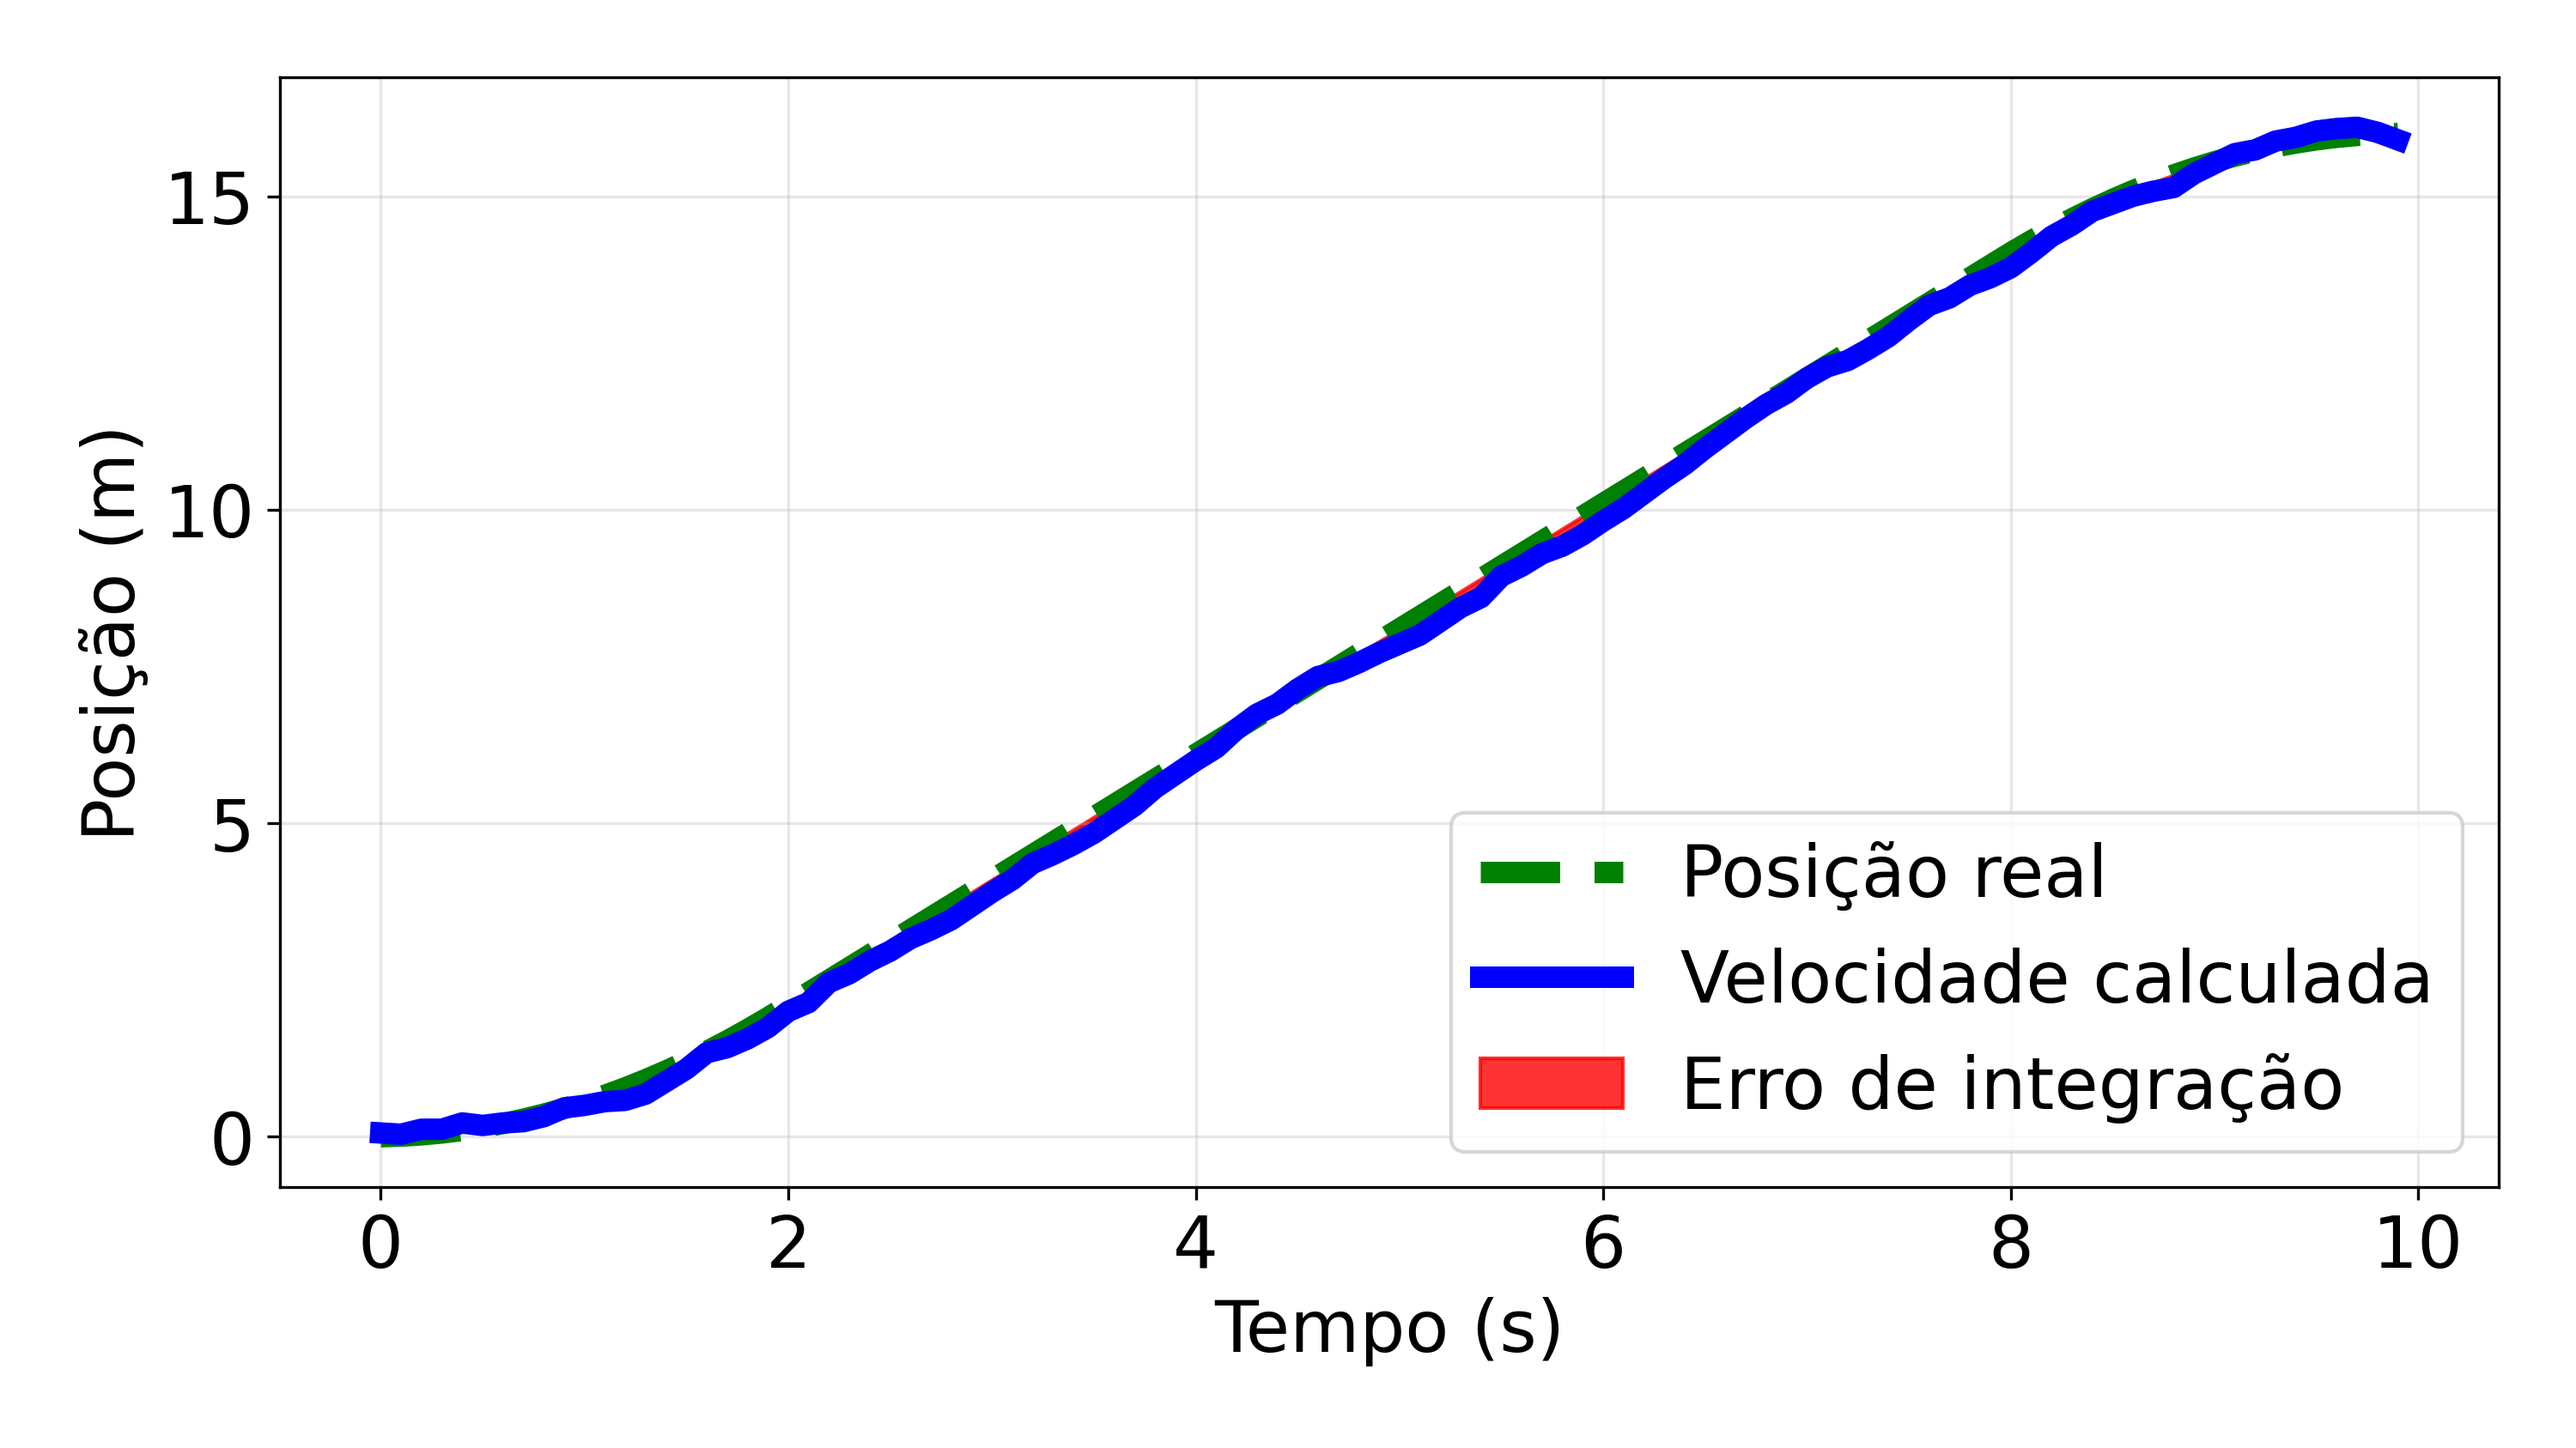
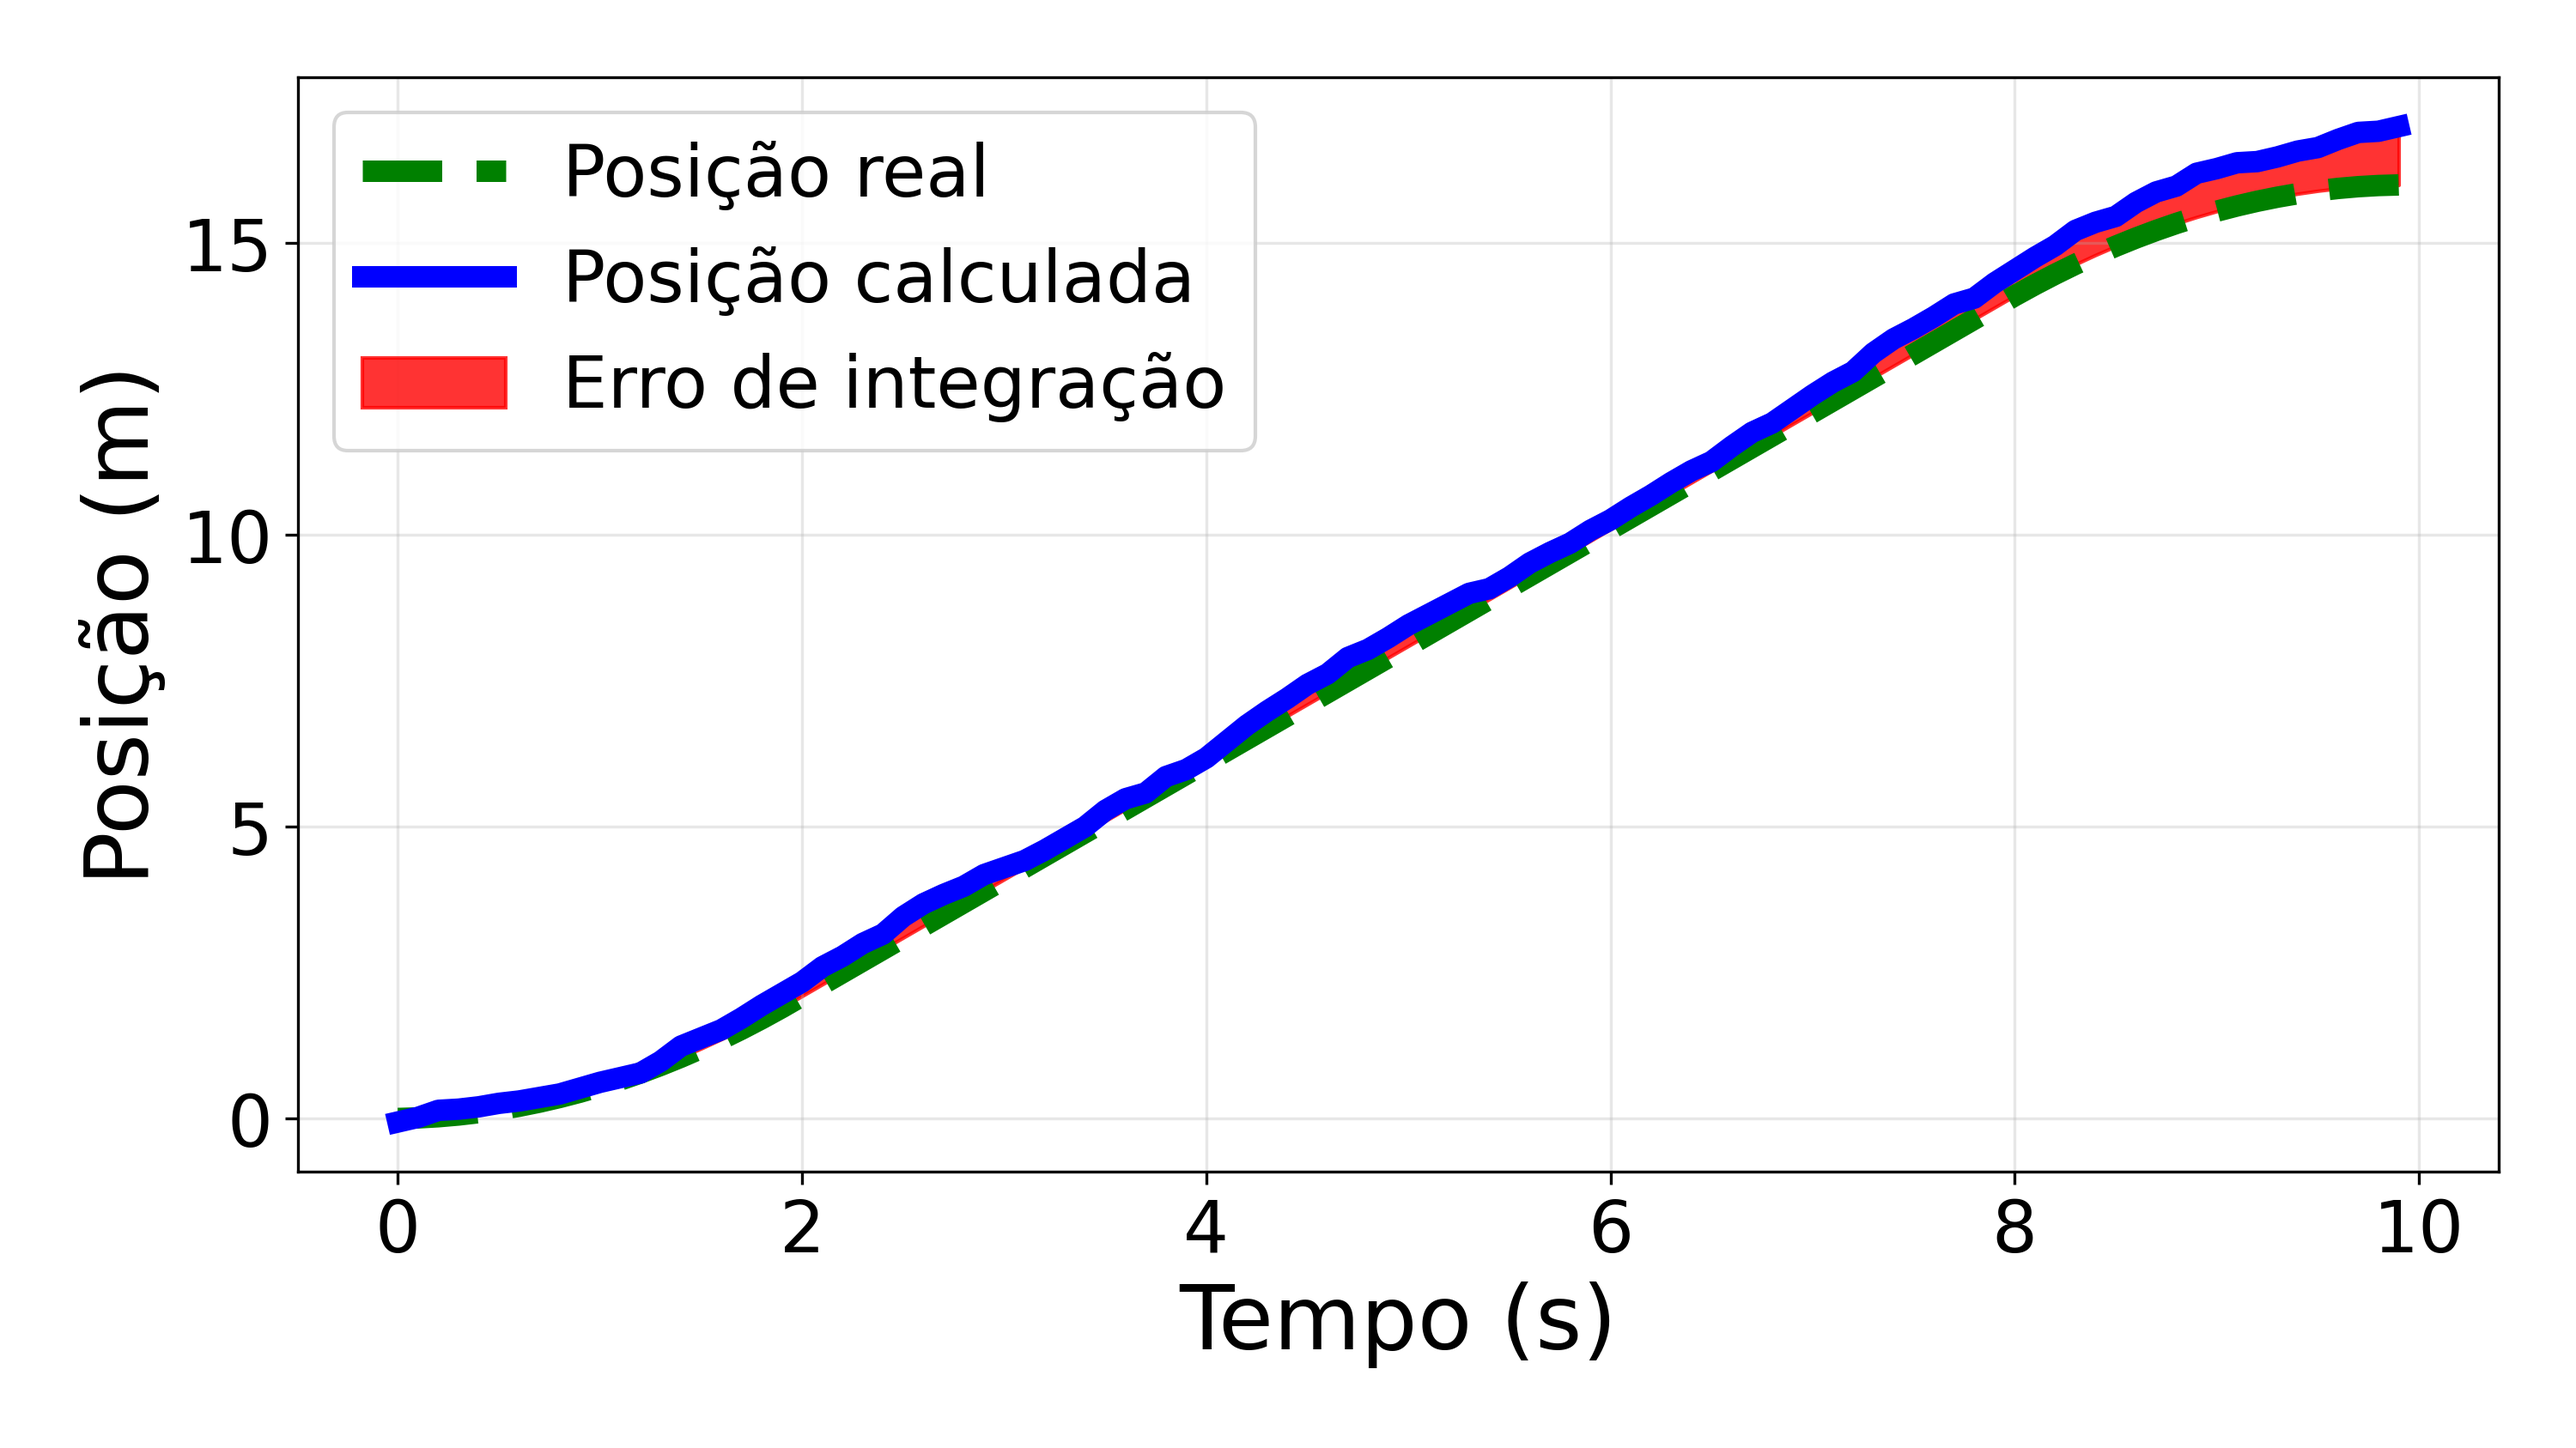
wip

diff --git a/slides/analise_numerica.tex b/slides/analise_numerica.tex
@@ -1,10 +1,55 @@
 \section{Análise Numérica}
 
 \begin{frame}{Tempo Discreto}
-Explain that computers can't do "continuous" limits. They do discrete steps.Visual: Show a curve with rectangles under it (Riemann Sum).The Formula: instead of $\int v(t) dt$, we compute $\sum v_i \cdot \Delta t$.This connects "Concept of limit" from your syllabus to "Numerical Integration".
+  Diferente do que é considerado analiticamente, computadores trabalham com \textbf{passos discretos de tempo} para calcular resultados. Dessa forma, para que seja possível calcular o resultado desejado a partir de dados finitos, é necessário o uso de técnicas numéricas de integração que aproximam o resultado. A mais simples delas é a \textbf{Soma de Riemann}.
 \end{frame}
 
-\begin{frame}{Integração numérica: Soma de Riemann}
+
+\begin{frame}[fragile]{Integração numérica: Soma de Riemann}
+  \begin{minipage}[c]{0.5\textwidth}
+  \begin{figure}
+    \begin{center}
+      \resizebox{0.8\columnwidth}{!}{%
+      \begin{tikzpicture}
+        \begin{axis}[
+            xmin=-0.5,xmax=6.8,
+            ymin=-0.1,ymax=11,
+            grid=both,
+            grid style={line width=.2pt, draw=gray!25},
+            major grid style={line width=.5pt,draw=gray!50},
+            axis lines=middle,
+            minor tick num=5,
+            enlargelimits={abs=0.5},
+            axis line style={latex-latex},
+            ticklabel style={font=\small,fill=white},
+            legend style={font=\small},
+            legend cell align=left,
+            legend pos=north east,
+            declare function={
+                f(\x) = 0.1*\x^3 - 0.5*\x^2 + 4;
+            }
+        ]
+          \addplot[red, very thick, smooth, domain=0:6.5] {f(x)};
+          \legend{$f(x) = 0.1x^3 - 0.5x^2 + 4$}
+          \pgfplotsinvokeforeach{0, 1, 2, 3, 4, 5, 6}{
+              \draw[fill=accentcolor, opacity=0.5, draw=accentcolor] (#1,0) rectangle (#1 + 1,{f(#1)});
+          }
+          \addplot[red, very thick, smooth, domain=0:6.5] {f(x)};
+        \end{axis}
+      \end{tikzpicture}
+    }
+    \end{center}
+    \caption{Soma de Riemann à esquerda.}\label{fig:soma_riemann}
+  \end{figure}
+  \end{minipage}
+  \begin{minipage}[c]{0.49\textwidth}
+    Seja $f:[a,b]\rightarrow \mathbb{R}$ uma função definida no intervalo $[a,b]$ e $P = (x_0,x_1,\ldots,x_n) \in [a,b]$ uma partição do intervalo analisado tal que $a < x_0 < x_1 < \ldots < x_n < b$. A Soma de Riemann, $S$, aproxima a área abaixo da curva e é definida como:
+
+    \begin{equation*}
+      S = \sum_{i=1}^{n}f(\text{}^{k}x_i)(x_i-x_{i-1})
+    \end{equation*}
+    Com $\text{}^{k}x_i = x_{i-1}, \forall i$ definindo a Soma de Riemann à esquerda.
+  \end{minipage}
+
 
 \end{frame}
-

diff --git a/demo/main.py b/demo/main.py
@@ -40,11 +40,10 @@ def main():
     # Increase base font size for everything (ticks, labels, legends)
     plt.rcParams.update({"font.size": 20})
     # specific settings for titles if you want them even bigger
-    plt.rcParams.update({"axes.titlesize": 20})
-    plt.rcParams.update({"axes.labelsize": 20})
+    plt.rcParams.update({"axes.labelsize": 25})
 
     # Create figure 1 with 16:9 aspect ratio
-    fig1, ax1 = plt.subplots(figsize=(10, 5.625), dpi=100)
+    fig1, ax1 = plt.subplots(figsize=(10, 6), dpi=100)
 
     ax1.plot(t, true_velocity, "g--", linewidth=8, label="Velocidade real")
     ax1.plot(
@@ -57,7 +56,7 @@ def main():
     )
     ax1.set_ylabel("Velocidade (m/s)")
     ax1.set_xlabel("Tempo (s)")
-    ax1.legend(loc="upper right")
+    ax1.legend(loc="best")
     ax1.grid(True, alpha=0.3)
 
     fig1.tight_layout()
@@ -68,7 +67,7 @@ def main():
     fig2, ax2 = plt.subplots(figsize=(10, 5.625), dpi=100)
 
     ax2.plot(t, true_position, "g--", linewidth=6, label="Posição real")
-    ax2.plot(t, estimated_position, "b-", linewidth=6, label="Velocidade calculada")
+    ax2.plot(t, estimated_position, "b-", linewidth=6, label="Posição calculada")
     ax2.fill_between(
         t,
         estimated_position,
@@ -79,7 +78,7 @@ def main():
     )
     ax2.set_ylabel("Posição (m)")
     ax2.set_xlabel("Tempo (s)")
-    ax2.legend(loc="lower right")
+    ax2.legend(loc="best")
     ax2.grid(True, alpha=0.3)
 
     fig2.tight_layout()

diff --git a/slides/introducao.tex b/slides/introducao.tex
@@ -1,7 +1,7 @@
 \section{Introdução}
 
 \begin{frame}{Cenário de exemplo}
-  Imagine que temos um carro autônomo. Seu GPS quebrou. Tudo o que temos é um sensor de velocidade que lê a cada 0,1 segundos. Como é possível calcular a distância percorrida?
+  Imagine que temos um carro autônomo. Seu GPS quebrou. Tudo o que temos é um sensor de velocidade que lê a cada \qty{0.1}{\second} com precisão de \qty[per-mode = symbol]{0.2}{\metre\per\second}. Como é possível calcular a distância percorrida?
   \begin{figure}[H]
     \centering
     \includegraphics[width=0.5\textwidth]{demo/results/velocity_plot.png}
@@ -11,7 +11,15 @@
 \end{frame}
 
 \begin{frame}{Análise teórica}
+  Lembre-se de que a velocidade é a derivada da posição:
+  \begin{equation*}
+    v(t) = \frac{dx}{dt}
+  \end{equation*}
 
-  Math Connection:Recall that $v(t) = \frac{dx}{dt}$ (Derivative).Therefore, distance is the area under the velocity curve: $\Delta x = \int_{t_0}^{t_f} v(t) dt$ (Fundamental Theorem of Calculus).
+  Dessa forma, a distância é dada pela área abaixo da curva. Então, pelo \textbf{Teorema Fundamental do Cálculo}, obtemos: 
+
+  \begin{equation*}
+    \Delta x = \int_{t_0}^{t_f} v(t) dt
+  \end{equation*}
 \end{frame}
 

diff --git a/preamble.tex b/preamble.tex
@@ -6,11 +6,24 @@
 \usefonttheme{professionalfonts}
 \usepackage[tracking=true]{microtype}
 
+\usepackage[brazilian]{babel}
+
 \usepackage{multirow}
 \usepackage{array}
 %color
 \usepackage{xcolor}
 %scientific
+\usepackage{siunitx}
+\sisetup{
+    output-decimal-marker = {,},   % Use comma for decimals (3,14)
+    group-separator = {.},         % Use dot for thousands (1.000)
+    group-minimum-digits = 4,      % Forces grouping for 1000 (standard is usually 5 digits)
+    list-final-separator = { e },  % "1, 2 e 3" instead of "and"
+    list-pair-separator = { e },   % "1 e 2"
+    range-phrase = { a },          % "10 a 20" instead of "to"
+    exponent-product = \cdot,      % Uses dot (3 . 10^3) instead of x
+    inter-unit-product = \ensuremath{{}\cdot{}} % Dot between units (N.m)
+}
 
 %math
 
@@ -21,6 +34,16 @@
 %graphic
 \usepackage{tikz}
 \usepackage[american, cute inductors]{circuitikz} % Circuitos
+\usepackage{pgfplots}
+
+\pgfplotsset{compat=1.18}
+
+\pgfplotsset{
+    /pgf/number format/.cd,
+    use comma,
+    1000 sep={.}
+}
+
 %macros
 \usepackage{etoolbox}
 

diff --git a/slides/implementacao.tex b/slides/implementacao.tex
@@ -10,5 +10,13 @@
 \end{frame}
 
 \begin{frame}{Análise dos resultados}
+  Obtemos que o erro de integração para os dados analisados é de \qty{0.46}{\meter}.
+
+  \begin{figure}[H]
+    \centering
+    \includegraphics[width=0.5\textwidth]{demo/results/position_plot.png}
+    \caption{Velocidade real do carro e dados capturados pelo sensor.}
+    \label{fig:velocity_plot}
+  \end{figure}
 
 \end{frame}
